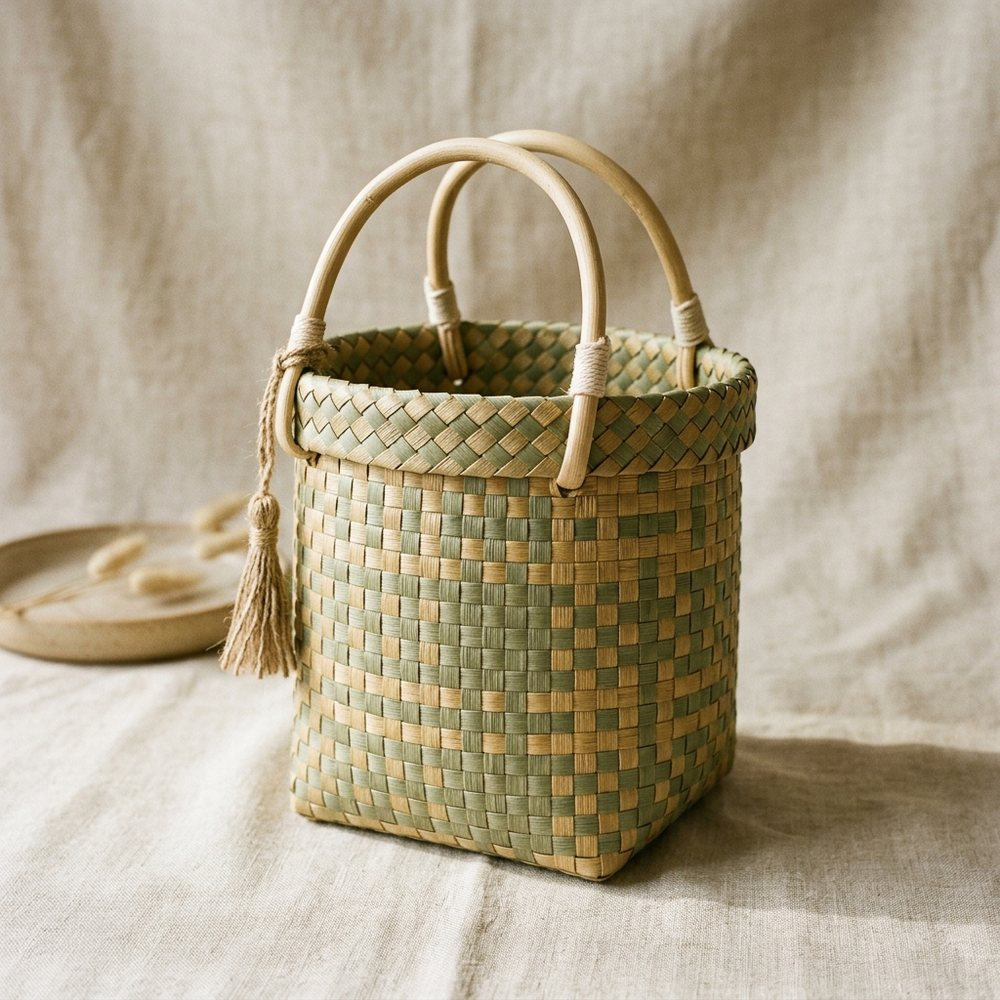
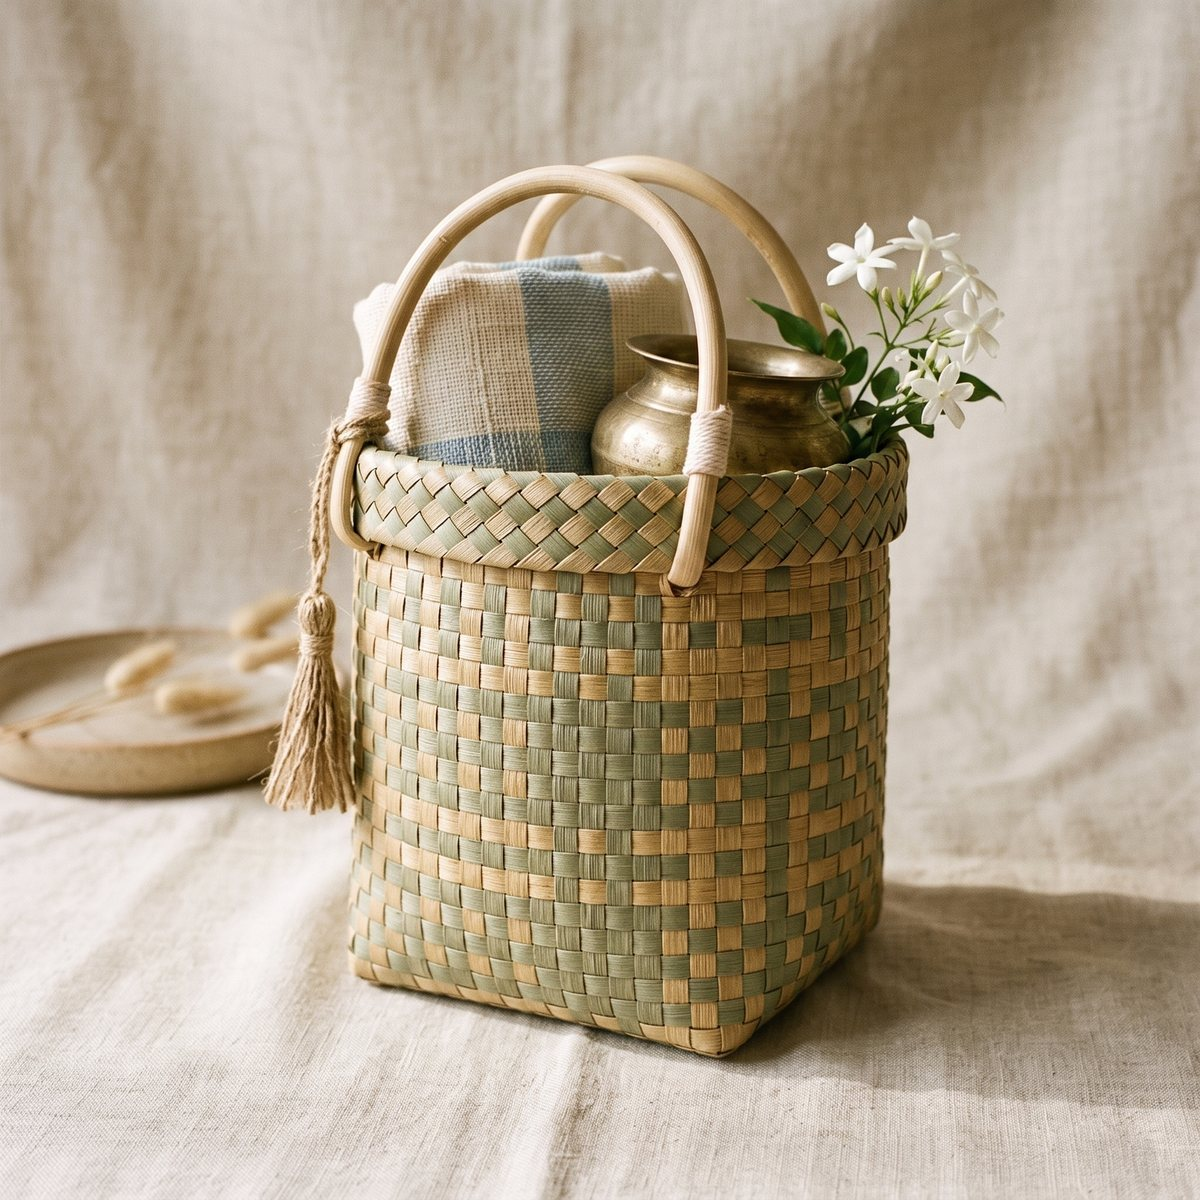
Regenerate collection vessels as filled gift sets (contents peeking); update note

diff --git a/index.html b/index.html
@@ -96,7 +96,7 @@
       <div class="container">
         <div class="section-head reveal">
           <h2 class="stitle"><span class="t-caps">What leaves the</span> <span class="t-script">Loom</span></h2>
-          <p class="section-head__note">The keepsake at the heart of each gift &mdash; shown empty here so you can see the weave. Choose a style; every one is gifted filled, and woven to your colours.</p>
+          <p class="section-head__note">The handwoven keepsake at the heart of each gift, shown here as it's given &mdash; filled to the occasion and woven to your colours.</p>
         </div>
 
         <p class="filmstrip__hint reveal">Six styles to choose from &mdash; scroll &rarr;</p>
